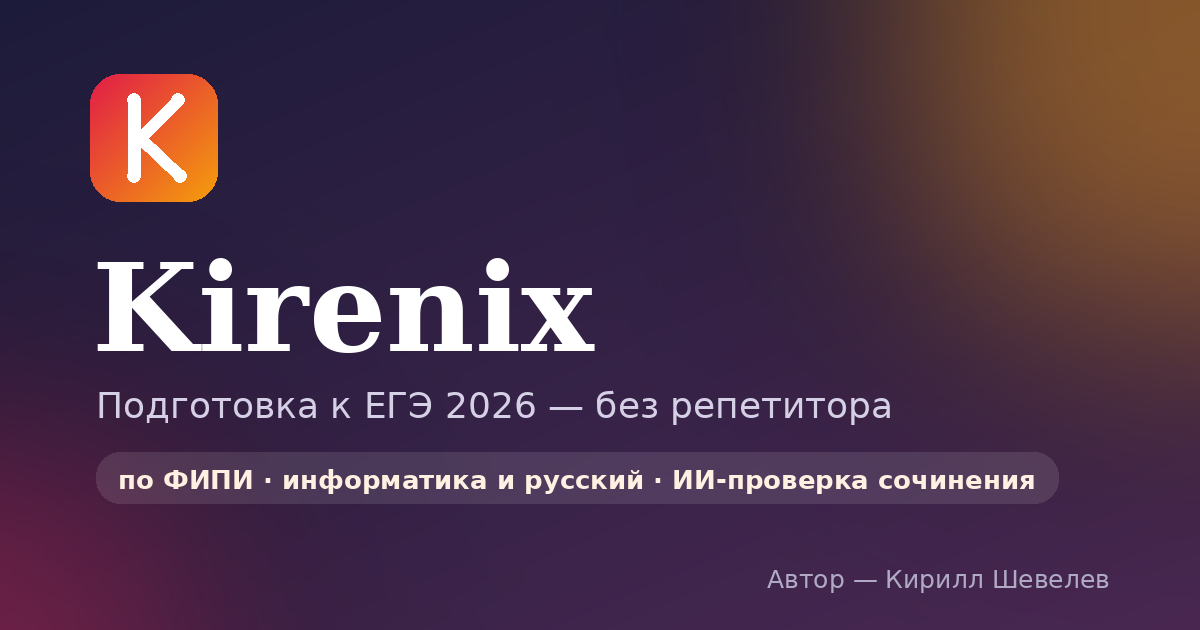
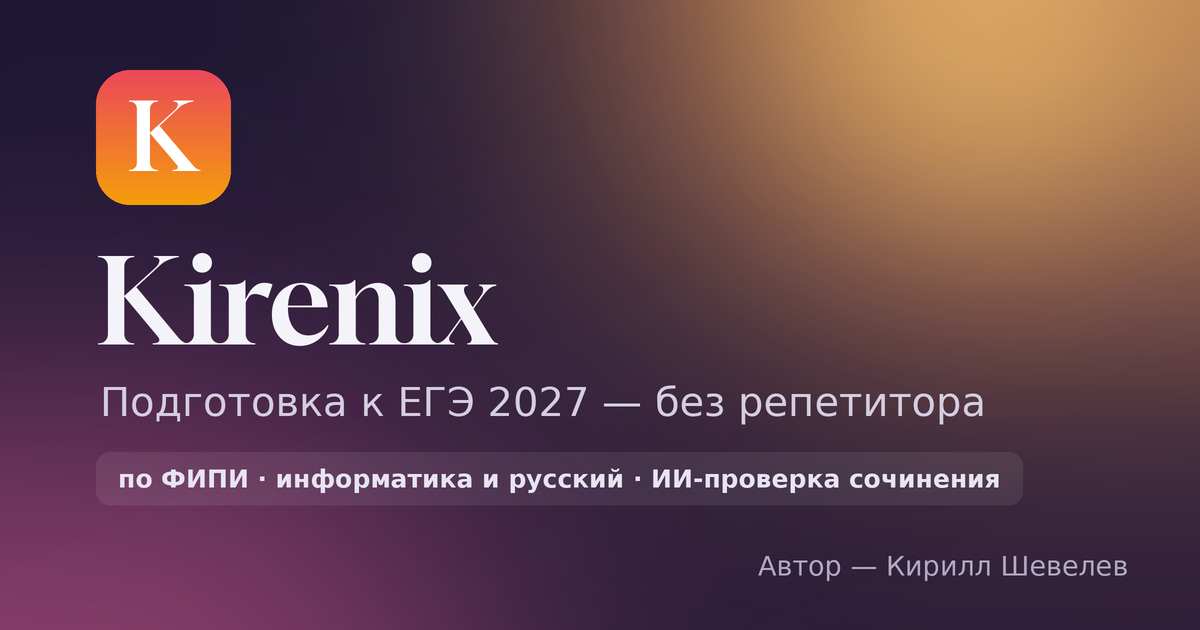
ЕГЭ 2026 → 2027 везде (контент, og, картинки)

diff --git a/src/Platform.jsx b/src/Platform.jsx
@@ -33,7 +33,7 @@ import {
    (или если таблица catalog_courses ещё не создана) */
 const FALLBACK_CATALOG = [
   {
-    id:"c3", title:"Информатика ЕГЭ 2026: все 27 заданий",
+    id:"c3", title:"Информатика ЕГЭ 2027: все 27 заданий",
     teacher:"Кирилл Шевелев", teacher_avatar:"КШ", school:"Авторский курс",
     subject:"Информатика", subject_icon:"💻", subject_color:"#3b82f6",
     price:5200, original_price:null,
@@ -41,18 +41,18 @@ const FALLBACK_CATALOG = [
     level:"intermediate", cover_color:"#3b82f6",
     content_id:"informatics",   // ← встроенный полный курс (11 модулей)
     tags:["11 модулей","Разбор всех 27 заданий","Практика с ответами","Python"],
-    short_desc:"Полный текстовый курс: теория, разобранные примеры, практика с ответами, шпаргалки. Машина Тьюринга, задание 22 «на максимум» — по ФИПИ 2026.",
+    short_desc:"Полный текстовый курс: теория, разобранные примеры, практика с ответами, шпаргалки. Машина Тьюринга, задание 22 «на максимум» — по ФИПИ 2027.",
   },
   {
-    id:"c4", title:"Русский язык ЕГЭ 2026: все 27 заданий и сочинение",
+    id:"c4", title:"Русский язык ЕГЭ 2027: все 27 заданий и сочинение",
     teacher:"Кирилл Шевелев", teacher_avatar:"КШ", school:"Авторский курс",
     subject:"Русский язык", subject_icon:"📝", subject_color:"#e11d48",
     price:4000, original_price:5900,
     duration:"60 ч", lessons:35, format:"text",
     level:"intermediate", cover_color:"#e11d48",
     content_id:"russian",   // ← встроенный полный курс (8 модулей)
-    tags:["8 модулей","Все 27 заданий","Сочинение на 22 балла","По ФИПИ 2026"],
-    short_desc:"Полный текстовый курс: теория, разобранные примеры, практика с ответами, шпаргалки. Орфоэпия, паронимы, орфография, пунктуация и сочинение по критериям К1–К10 ФИПИ 2026.",
+    tags:["8 модулей","Все 27 заданий","Сочинение на 22 балла","По ФИПИ 2027"],
+    short_desc:"Полный текстовый курс: теория, разобранные примеры, практика с ответами, шпаргалки. Орфоэпия, паронимы, орфография, пунктуация и сочинение по критериям К1–К10 ФИПИ 2027.",
   },
 ];
 
@@ -291,7 +291,7 @@ const CoursePage = ({ course, onBack, onMessages, onStudy, user, profile }) => {
         <div style={{ display:"flex", gap:8, flexWrap:"wrap", marginBottom:16 }}>
           <Badge color="#10b981">Урок 1.1 — бесплатно</Badge>
           <Badge color={course.cover_color}>Доступ навсегда</Badge>
-          <Badge color={course.cover_color}>Проверено по ФИПИ 2026</Badge>
+          <Badge color={course.cover_color}>Проверено по ФИПИ 2027</Badge>
         </div>
 
         <div style={{ display:"flex", alignItems:"center", gap:10, marginBottom:16 }}>
@@ -844,7 +844,7 @@ export default function Platform({ user, profile, notifications, onProfileUpdate
               padding:"24px 20px", marginBottom:16, color:"#fff",
             }}>
               <div style={{ fontSize:22, fontWeight:700, marginBottom:6 }}>
-                Информатика ЕГЭ 2026 💻
+                Информатика ЕГЭ 2027 💻
               </div>
               <div style={{ fontSize:13, opacity:.9, marginBottom:16, lineHeight:1.6 }}>
                 Авторский курс Кирилла Шевелева: вся теория, разобранные примеры,
@@ -890,7 +890,7 @@ export default function Platform({ user, profile, notifications, onProfileUpdate
                   ["✍️","Практика с ответами","15–20 задач на урок, чтобы закрепить"],
                   ["📝","Шпаргалка и типичные ошибки","краткая выжимка для повторения перед экзаменом"],
                   ["🐍","Рабочий Python-код","проверяй свои решения программой, как на ЕГЭ"],
-                  ["🧠","Изменения 2026 учтены","Машина Тьюринга (зад. 12), «максимум» в зад. 22 — по ФИПИ"],
+                  ["🧠","Изменения 2027 учтены","Машина Тьюринга (зад. 12), «максимум» в зад. 22 — по ФИПИ"],
                 ].map(([icon,t,d]) => (
                   <div key={t} style={{ display:"flex", gap:10 }}>
                     <span style={{ fontSize:18, flexShrink:0 }}>{icon}</span>
@@ -941,7 +941,7 @@ export default function Platform({ user, profile, notifications, onProfileUpdate
                 ["Сколько действует доступ?","Бессрочно — включая все будущие обновления курса."],
                 ["Что произойдёт после оплаты?","Доступ откроется автоматически примерно за минуту, курс появится в «Моём кабинете». Оплата через ЮKassa."],
                 ["Можно ли вернуть деньги?","Да, по публичной оферте: в течение 14 дней до получения доступа — полностью, после начала обучения — пропорционально непройденным материалам."],
-                ["Курс точно актуален для ЕГЭ 2026?","Да: структура из 27 заданий, Машина Тьюринга в задании 12 и «максимум» в задании 22 — сверено с документами ФИПИ 2026."],
+                ["Курс точно актуален для ЕГЭ 2027?","Да: структура из 27 заданий, Машина Тьюринга в задании 12 и «максимум» в задании 22 — сверено с документами ФИПИ 2027."],
               ].map(([q,a]) => (
                 <details key={q} style={{ borderBottom:"0.5px solid var(--color-border-tertiary)", padding:"8px 0" }}>
                   <summary style={{ fontSize:13, fontWeight:600, cursor:"pointer" }}>{q}</summary>

diff --git a/supabase/functions/ai-tutor/index.ts b/supabase/functions/ai-tutor/index.ts
@@ -38,9 +38,9 @@ const json = (obj: unknown, status = 200) =>
 const wordCount = (s: string) =>
   (s.trim().match(/[^\s]+/g) || []).length;
 
-// ── Критерии оценивания сочинения (задание 27, ЕГЭ 2026) ──
+// ── Критерии оценивания сочинения (задание 27, ЕГЭ 2027) ──
 const ESSAY_RUBRIC = `
-КРИТЕРИИ ОЦЕНИВАНИЯ СОЧИНЕНИЯ (задание 27, ЕГЭ 2026, максимум 22 балла):
+КРИТЕРИИ ОЦЕНИВАНИЯ СОЧИНЕНИЯ (задание 27, ЕГЭ 2027, максимум 22 балла):
 К1 — Позиция автора по проблеме: 1 балл (верно сформулирована) / 0.
    ВАЖНО: если К1 = 0 (позиция не сформулирована или неверна), то К2 и К3 тоже 0.
 К2 — Комментарий: до 3 баллов.
@@ -98,7 +98,7 @@ async function gradeEssay(essay: string, source: string) {
   const words = wordCount(essay);
   const system =
     `Ты — строгий, но доброжелательный эксперт ЕГЭ по русскому языку. ` +
-    `Оцениваешь сочинение (задание 27) ТОЧНО по официальным критериям ФИПИ 2026. ` +
+    `Оцениваешь сочинение (задание 27) ТОЧНО по официальным критериям ФИПИ 2027. ` +
     `Не завышай и не занижай баллы, опирайся только на критерии.\n\n${ESSAY_RUBRIC}\n\n` +
     `ФОРМАТ ОТВЕТА (строго так, markdown):\n` +
     `Первая строка: «БАЛЛЫ: N/22» (N — сумма).\n` +
@@ -244,7 +244,7 @@ Deno.serve(async (req) => {
       const lessonContext = (lesson.body || "").slice(0, 8000);
       const system =
         `Ты — эксперт ЕГЭ по русскому языку. Проверь ответ ученика по заданию ниже, ` +
-        `опираясь на материал урока и нормы ФИПИ 2026. Скажи: что верно, где ошибки (конкретно), ` +
+        `опираясь на материал урока и нормы ФИПИ 2027. Скажи: что верно, где ошибки (конкретно), ` +
         `как правильно и на что обратить внимание. По-русски, по делу, до ~350 слов.\n\n` +
         `ЗАДАНИЕ: ${task}\n\n=== МАТЕРИАЛ УРОКА ===\n${lessonContext}`;
       const answer = await callAI(system, [{ role: "user", content: `ОТВЕТ УЧЕНИКА:\n${ans}` }], 1100);
@@ -255,7 +255,7 @@ Deno.serve(async (req) => {
     const question = body.question;
     const history = Array.isArray(body.history) ? body.history : [];
     const courseTitle = lesson.course_slug === "russian"
-      ? "Русский язык ЕГЭ 2026" : "Информатика ЕГЭ 2026";
+      ? "Русский язык ЕГЭ 2027" : "Информатика ЕГЭ 2027";
     const lessonContext = (lesson.body || "").slice(0, 14000);
     const system =
       `Ты — дружелюбный AI-репетитор курса «${courseTitle}» (автор Кирилл Шевелев). ` +

diff --git a/index.html b/index.html
@@ -9,8 +9,8 @@
     <link rel="apple-touch-icon" href="/apple-touch-icon.png" />
     <link rel="manifest" href="/site.webmanifest" />
     <meta name="viewport" content="width=device-width, initial-scale=1.0" />
-    <title>Kirenix — подготовка к ЕГЭ 2026: информатика и русский | Кирилл Шевелев</title>
-    <meta name="description" content="Kirenix — авторские курсы Кирилла Шевелева к ЕГЭ 2026 по информатике и русскому: теория, разбор всех заданий, практика с ответами и ИИ-проверка сочинения. Первый урок бесплатно." />
+    <title>Kirenix — подготовка к ЕГЭ 2027: информатика и русский | Кирилл Шевелев</title>
+    <meta name="description" content="Kirenix — авторские курсы Кирилла Шевелева к ЕГЭ 2027 по информатике и русскому: теория, разбор всех заданий, практика с ответами и ИИ-проверка сочинения. Первый урок бесплатно." />
     <!-- Подтверждение прав в вебмастерах: вставь свой код в content="".
          Яндекс.Вебмастер → webmaster.yandex.ru (метод «Мета-тег»).
          Google Search Console → search.google.com/search-console (метод «HTML-тег»). -->
@@ -19,7 +19,7 @@
     <!-- Open Graph: превью при шеринге в соцсетях и мессенджерах -->
     <meta property="og:type" content="website" />
     <meta property="og:site_name" content="Kirenix" />
-    <meta property="og:title" content="Kirenix — подготовка к ЕГЭ 2026 без репетитора" />
+    <meta property="og:title" content="Kirenix — подготовка к ЕГЭ 2027 без репетитора" />
     <meta property="og:description" content="Информатика и русский: теория, разбор всех заданий, практика с ответами и проверка сочинения по критериям ФИПИ. Первый урок бесплатно." />
     <meta property="og:url" content="https://kirenix.ru/" />
     <meta property="og:image" content="https://kirenix.ru/og.png" />

diff --git a/src/Landing.jsx b/src/Landing.jsx
@@ -86,7 +86,7 @@ export default function Landing({ cards, onTryFree, onFreeEssay }) {
         <section className={`${GLASS} rounded-[28px] p-7 sm:p-9 mb-5`}>
           <div className="grid grid-cols-1 md:grid-cols-[1.15fr_0.85fr] gap-6 items-center">
             <div className="pf-fade">
-              <div className={`${EYEBROW} text-amber-700/90 mb-3`}>Авторская подготовка · ЕГЭ 2026</div>
+              <div className={`${EYEBROW} text-amber-700/90 mb-3`}>Авторская подготовка · ЕГЭ 2027</div>
               <h1 className="pf-serif text-[40px] leading-[1.1] tracking-tight text-zinc-900 dark:text-zinc-50">
                 Высокий балл на ЕГЭ<br/>
                 <span className="bg-gradient-to-r from-[#e11d48] via-[#f97316] to-[#f59e0b] bg-clip-text text-transparent">
@@ -113,7 +113,7 @@ export default function Landing({ cards, onTryFree, onFreeEssay }) {
               </div>
               <div className="mt-4 flex items-center gap-2 text-xs text-zinc-500 dark:text-zinc-400">
                 <ShieldCheck size={15} className="text-emerald-500"/>
-                По кодификатору ФИПИ 2026 · доступ навсегда · оплата через ЮKassa
+                По кодификатору ФИПИ 2027 · доступ навсегда · оплата через ЮKassa
               </div>
             </div>
             <div className="pf-float relative">
@@ -125,7 +125,7 @@ export default function Landing({ cards, onTryFree, onFreeEssay }) {
         {/* ───────── TRUST BAR ───────── */}
         <div className="grid grid-cols-2 md:grid-cols-4 gap-3 mb-6">
           {[
-            [<ShieldCheck size={18}/>, "По ФИПИ 2026", "кодификатор и демоверсия"],
+            [<ShieldCheck size={18}/>, "По ФИПИ 2027", "кодификатор и демоверсия"],
             [<FileCheck size={18}/>, "Проверка сочинения", "ИИ + личный разбор автора"],
             [<Clock size={18}/>, "Доступ навсегда", "учись в своём темпе"],
             [<GraduationCap size={18}/>, "Урок бесплатно", "оцени формат до покупки"],

diff --git a/src/EssayChecker.jsx b/src/EssayChecker.jsx
@@ -1,6 +1,6 @@
 // ═══════════════════════════════════════════════════════════════════
 //  EssayChecker.jsx — проверка сочинения (задание 27) по критериям
-//  К1–К10 ФИПИ 2026. Уходит в Edge Function ai-tutor (mode: "essay").
+//  К1–К10 ФИПИ 2027. Уходит в Edge Function ai-tutor (mode: "essay").
 //  Это «фишка» курса: то, что автопроверка маркетплейсов не умеет.
 // ═══════════════════════════════════════════════════════════════════
 
@@ -85,7 +85,7 @@ export default function EssayChecker({ lessonId, accent = "#e11d48", onClose, fr
           <CheckCircle2 size={18}/>
           <div style={{ flex: 1, minWidth: 0 }}>
             <div style={{ fontSize: 14, fontWeight: 700 }}>{free ? "Бесплатная проверка сочинения" : "Проверка сочинения по К1–К10"}</div>
-            <div style={{ fontSize: 10.5, opacity: .9 }}>{free ? "Одна проверка по К1–К10 — бесплатно, без карты" : "Критерии ФИПИ 2026 · максимум 22 балла"}</div>
+            <div style={{ fontSize: 10.5, opacity: .9 }}>{free ? "Одна проверка по К1–К10 — бесплатно, без карты" : "Критерии ФИПИ 2027 · максимум 22 балла"}</div>
           </div>
           {remaining !== null && (
             <span style={{ fontSize: 10, opacity: .9, whiteSpace: "nowrap" }}>ещё {remaining}/день</span>

diff --git a/src/Exams.jsx b/src/Exams.jsx
@@ -33,14 +33,14 @@ export default function Exams({ onBack, onOpenCourse }) {
         </div>
         <div style={{ fontSize: 13, lineHeight: 1.7, color: "var(--color-text-secondary)" }}>
           Раздел в разработке. Здесь появятся полные варианты ЕГЭ по информатике
-          в формате 2026 года — с таймером, автопроверкой и разбором каждой ошибки.
+          в формате 2027 года — с таймером, автопроверкой и разбором каждой ошибки.
         </div>
       </div>
 
       <div style={{ ...card(), padding: "18px 20px", marginBottom: 14 }}>
         <div style={{ fontSize: 14, fontWeight: 700, marginBottom: 12 }}>Что будет внутри</div>
         {[
-          [<FileText size={15}/>, "Полные варианты из 27 заданий в формате ФИПИ 2026"],
+          [<FileText size={15}/>, "Полные варианты из 27 заданий в формате ФИПИ 2027"],
           [<Timer size={15}/>, "Таймер 3 ч 55 мин — как на настоящем экзамене"],
           [<CheckCircle size={15}/>, "Автопроверка и первичные/тестовые баллы"],
           [<Bot size={15}/>, "AI-разбор каждой ошибки: почему не так и как надо"],

diff --git a/src/Illustrations.jsx b/src/Illustrations.jsx
@@ -25,8 +25,8 @@ export function DotGrid({ color = "#14141b", opacity = 0.05, style = {} }) {
   );
 }
 
-/** Круглая «печать» — знак доверия (напр. «ФИПИ 2026») */
-export function Seal({ top = "ПО КОДИФИКАТОРУ", bottom = "ФИПИ 2026", size = 92, color = "#b88a3e" }) {
+/** Круглая «печать» — знак доверия (напр. «ФИПИ 2027») */
+export function Seal({ top = "ПО КОДИФИКАТОРУ", bottom = "ФИПИ 2027", size = 92, color = "#b88a3e" }) {
   const id = "seal" + bottom.replace(/\W/g, "");
   return (
     <svg width={size} height={size} viewBox="0 0 100 100" className="pf-float" style={{ display: "block" }}>

diff --git a/src/courses/informatics/index.js b/src/courses/informatics/index.js
@@ -1,5 +1,5 @@
 // ═══════════════════════════════════════════════════════════════════
-//  Курс «Информатика ЕГЭ 2026» — метаданные.
+//  Курс «Информатика ЕГЭ 2027» — метаданные.
 //
 //  ВАЖНО: контент уроков в бандл НЕ попадает — он хранится в Supabase
 //  (таблица course_lessons, защищена RLS) и отдаётся сервером только
@@ -15,6 +15,6 @@ export const INFORMATICS_COURSE = {
   id: "informatics",
   icon: "💻",
   color: "#3b82f6",
-  title: "Информатика ЕГЭ 2026",
+  title: "Информатика ЕГЭ 2027",
   program,
 };

diff --git a/src/courses/russian/index.js b/src/courses/russian/index.js
@@ -1,5 +1,5 @@
 // ═══════════════════════════════════════════════════════════════════
-//  Курс «Русский язык ЕГЭ 2026» — метаданные.
+//  Курс «Русский язык ЕГЭ 2027» — метаданные.
 //
 //  ВАЖНО: контент уроков в бандл НЕ попадает — он хранится в Supabase
 //  (таблица course_lessons, защищена RLS) и отдаётся сервером только
@@ -15,6 +15,6 @@ export const RUSSIAN_COURSE = {
   id: "russian",
   icon: "📝",
   color: "#e11d48",
-  title: "Русский язык ЕГЭ 2026",
+  title: "Русский язык ЕГЭ 2027",
   program,
 };

diff --git a/supabase/functions/create-payment/index.ts b/supabase/functions/create-payment/index.ts
@@ -20,11 +20,11 @@ import { createClient } from "npm:@supabase/supabase-js@2";
 // Фолбэк на случай, если таблица каталога ещё не создана.
 const FALLBACK_COURSES: Record<string, { title: string; amount: string }> = {
   informatics: {
-    title: "Доступ к онлайн-курсу «Информатика ЕГЭ 2026: все 27 заданий»",
+    title: "Доступ к онлайн-курсу «Информатика ЕГЭ 2027: все 27 заданий»",
     amount: "5200.00",
   },
   russian: {
-    title: "Доступ к онлайн-курсу «Русский язык ЕГЭ 2026: все 27 заданий и сочинение»",
+    title: "Доступ к онлайн-курсу «Русский язык ЕГЭ 2027: все 27 заданий и сочинение»",
     amount: "4000.00",
   },
 };

diff --git a/src/AuthScreen.jsx b/src/AuthScreen.jsx
@@ -194,7 +194,7 @@ export default function AuthScreen({ onAuth }) {
           </g>
         </svg>
         <div className="pf-serif text-[26px] mt-3 text-zinc-900 dark:text-zinc-100">Kirenix</div>
-        <div className="text-[13px] text-zinc-500 dark:text-zinc-400 mt-1">Курсы ЕГЭ 2026 — информатика и русский</div>
+        <div className="text-[13px] text-zinc-500 dark:text-zinc-400 mt-1">Курсы ЕГЭ 2027 — информатика и русский</div>
       </div>
 
       <div className="relative z-[1] w-full max-w-[420px] rounded-3xl p-6

diff --git a/src/CourseStudy.jsx b/src/CourseStudy.jsx
@@ -459,7 +459,7 @@ export default function CourseStudy({ contentId, user, price, onBack }) {
             Программа курса
           </span>
           <span style={{ display: "block", fontSize: 11.5, color: "var(--color-text-secondary)" }}>
-            Карта всех 27 заданий · изменения ЕГЭ 2026 · методика
+            Карта всех 27 заданий · изменения ЕГЭ 2027 · методика
           </span>
         </span>
         <ChevronRight size={15} style={{ color: "var(--color-text-secondary)" }}/>